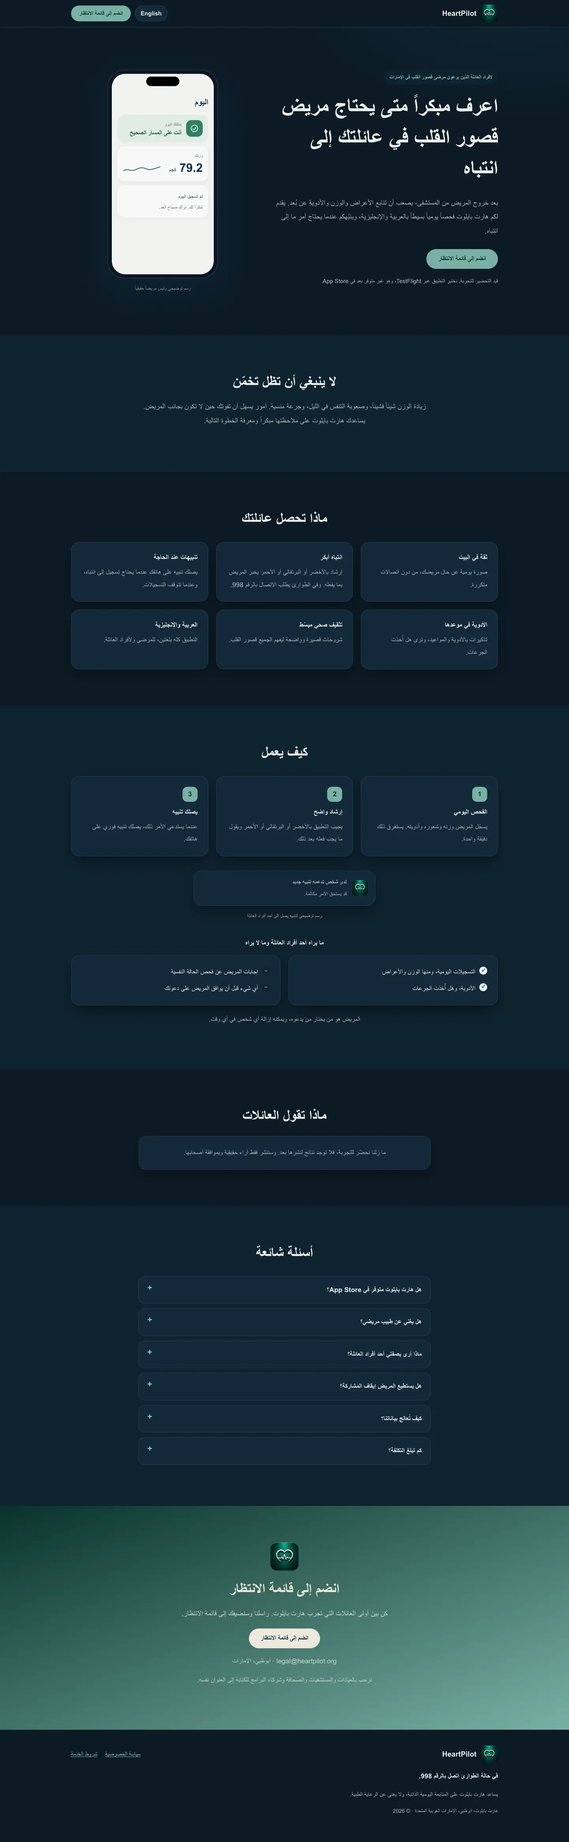
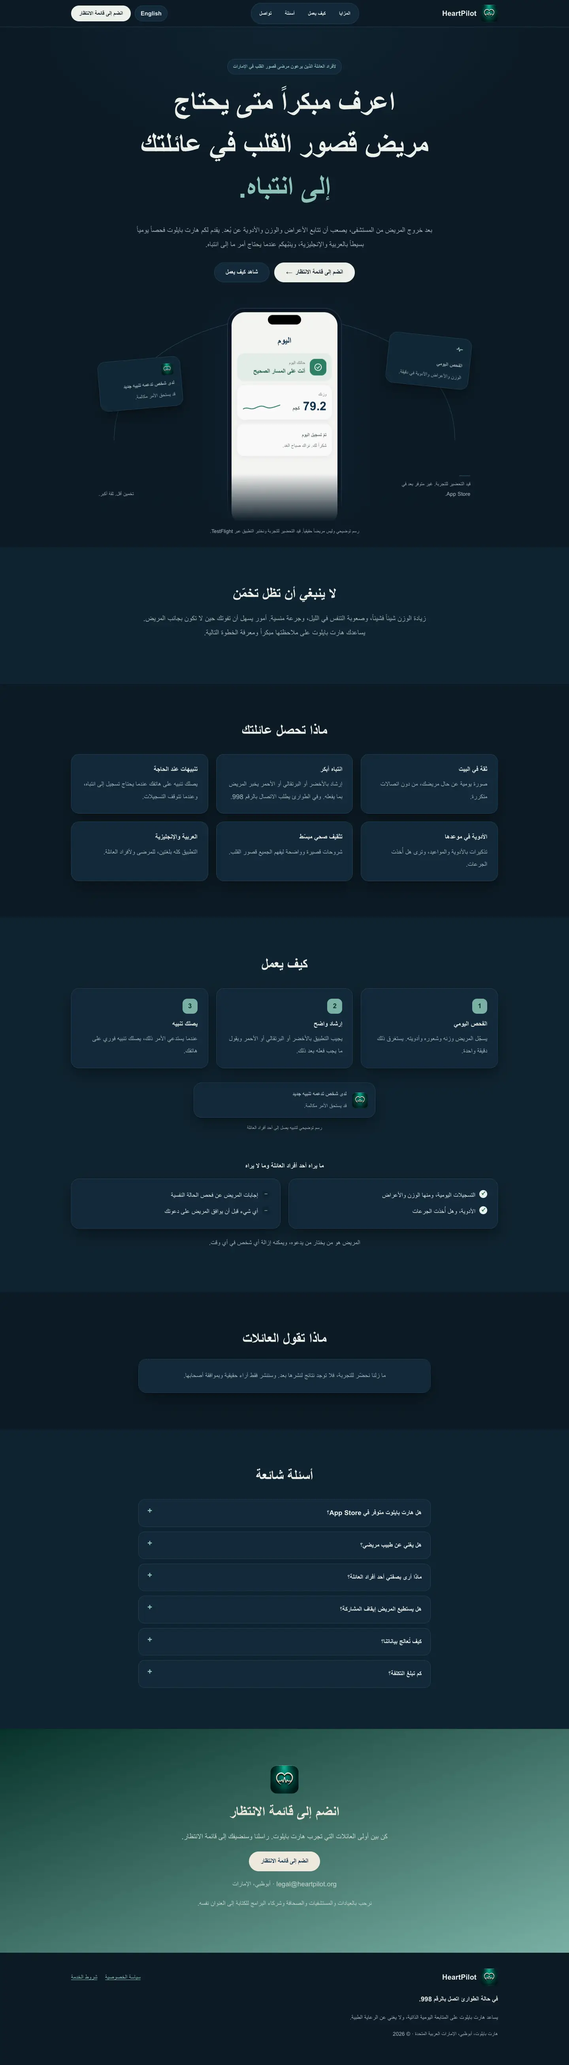
Hero redesign after the reference: centred headline, pill nav, glass cards around the phone

diff --git a/index.html b/index.html
@@ -33,20 +33,20 @@
 <a class="skip" href="#main"><span data-l="en">Skip to content</span><span data-l="ar" lang="ar">انتقل إلى المحتوى</span></a>
 <header class="site-header"><div class="wrap bar">
 <a class="brand" href="/" aria-label="HeartPilot home" data-aria-en="HeartPilot home" data-aria-ar="HeartPilot، الصفحة الرئيسية"><img class="logo" src="/assets/logo-128.png" width="44" height="44" alt=""><span class="word">HeartPilot</span></a>
+<nav class="pill-nav" aria-label="Page sections" data-aria-en="Page sections" data-aria-ar="أقسام الصفحة"><a href="#benefits"><span data-l="en">Benefits</span><span data-l="ar" lang="ar">المزايا</span></a><a href="#how"><span data-l="en">How it works</span><span data-l="ar" lang="ar">كيف يعمل</span></a><a href="#faq"><span data-l="en">Questions</span><span data-l="ar" lang="ar">أسئلة</span></a><a href="#contact"><span data-l="en">Contact</span><span data-l="ar" lang="ar">تواصل</span></a></nav>
 <div class="tools">
-<button type="button" class="lang" id="lang" aria-label="Switch language to Arabic" data-aria-en="Switch language to Arabic" data-aria-ar="English، التبديل إلى الإنجليزية"><span data-l="en" lang="ar">العربية</span><span data-l="ar">English</span></button>
-<a class="btn btn-sm" href="/#contact"><span data-l="en">Join the waitlist</span><span data-l="ar" lang="ar">انضم إلى قائمة الانتظار</span></a>
+<button type="button" class="lang" id="lang" aria-label="العربية, switch language to Arabic" data-aria-en="العربية, switch language to Arabic" data-aria-ar="English، التبديل إلى الإنجليزية"><span data-l="en" lang="ar">العربية</span><span data-l="ar">English</span></button>
+<a class="btn btn-sm btn-dark" href="/#contact"><span data-l="en">Join the waitlist</span><span data-l="ar" lang="ar">انضم إلى قائمة الانتظار</span></a>
 </div></div></header>
 <main id="main">
-<section class="hero"><div class="wrap hero-grid">
-<div class="hero-copy">
+<section class="hero"><div class="wrap center">
 <p class="eyebrow"><span data-l="en">For family caregivers in the UAE</span><span data-l="ar" lang="ar">لأفراد العائلة الذين يرعون مرضى قصور القلب في الإمارات</span></p>
-<h1><span data-l="en">Know sooner when your loved one’s heart failure needs attention</span><span data-l="ar" lang="ar">اعرف مبكراً متى يحتاج مريض قصور القلب في عائلتك إلى انتباه</span></h1>
+<h1><span data-l="en">Know sooner when your loved one’s <em>heart failure needs attention.</em></span><span data-l="ar" lang="ar">اعرف مبكراً متى يحتاج مريض قصور القلب في عائلتك <em>إلى انتباه.</em></span></h1>
 <p class="lead"><span data-l="en">After hospital discharge, symptoms, weight and medicines are easy to miss from a distance. HeartPilot gives your family a simple daily check-in in English and Arabic, and alerts you when something needs attention.</span><span data-l="ar" lang="ar">بعد خروج المريض من المستشفى، يصعب أن تتابع الأعراض والوزن والأدوية عن بُعد. يقدم لكم هارت بايلوت فحصاً يومياً بسيطاً بالعربية والإنجليزية، وينبّهكم عندما يحتاج أمر ما إلى انتباه.</span></p>
-<div class="cta"><a class="btn" href="#contact"><span data-l="en">Join the waitlist</span><span data-l="ar" lang="ar">انضم إلى قائمة الانتظار</span></a></div>
-<p class="note"><span data-l="en">In pilot preparation. Testing on TestFlight. Not yet on the App Store.</span><span data-l="ar" lang="ar">قيد التحضير للتجربة. نختبر التطبيق عبر TestFlight، وهو غير متوفر بعد في App Store.</span></p>
-</div>
-<div class="hero-art" role="img" aria-label="An illustration of the HeartPilot Today screen showing the message You are on track" data-aria-en="An illustration of the HeartPilot Today screen showing the message You are on track" data-aria-ar="رسم توضيحي لشاشة اليوم في هارت بايلوت يعرض رسالة أنت على المسار الصحيح">
+<div class="cta"><a class="btn btn-dark" href="#contact"><span data-l="en">Join the waitlist</span><span data-l="ar" lang="ar">انضم إلى قائمة الانتظار</span><i aria-hidden="true" class="arr">→</i></a><a class="btn btn-ghost" href="#how"><span data-l="en">See how it works</span><span data-l="ar" lang="ar">شاهد كيف يعمل</span></a></div>
+<div class="stage" role="img" aria-label="An illustration of the HeartPilot Today screen showing the message You are on track, with a daily check-in card and a caregiver alert card" data-aria-en="An illustration of the HeartPilot Today screen showing the message You are on track, with a daily check-in card and a caregiver alert card" data-aria-ar="رسم توضيحي لشاشة اليوم في هارت بايلوت يعرض رسالة أنت على المسار الصحيح، مع بطاقة الفحص اليومي وبطاقة تنبيه لأحد أفراد العائلة">
+<svg class="arc" viewBox="0 0 1000 520" preserveAspectRatio="none" aria-hidden="true"><path d="M60 330C60 120 330 40 500 40s440 80 440 290" fill="none" stroke="currentColor" stroke-width="1.2"/></svg>
+<div class="gcard g-left" aria-hidden="true"><svg viewBox="0 0 24 24" width="22" height="22"><path d="M4 12h3l2-5 3 10 2-5h6" fill="none" stroke="currentColor" stroke-width="2" stroke-linecap="round" stroke-linejoin="round"/></svg><b><span data-l="en">Daily check-in</span><span data-l="ar" lang="ar">الفحص اليومي</span></b><span><span data-l="en">Weight, symptoms and medicines in a minute.</span><span data-l="ar" lang="ar">الوزن والأعراض والأدوية في دقيقة.</span></span></div>
 <div class="phone" aria-hidden="true"><div class="notch"></div><div class="screen">
 <div class="s-top"><b><span data-l="en">Today</span><span data-l="ar" lang="ar">اليوم</span></b></div>
 <div class="s-card s-ok"><span class="s-ico"><svg viewBox="0 0 24 24" width="22" height="22"><circle cx="12" cy="12" r="9" fill="none" stroke="#fff" stroke-width="2"/><path d="M8 12.5l3 3 5-6" fill="none" stroke="#fff" stroke-width="2" stroke-linecap="round" stroke-linejoin="round"/></svg></span>
@@ -55,8 +55,12 @@
 <svg viewBox="0 0 120 36" class="spark" aria-hidden="true"><path d="M2 22c14-8 22 4 36-2s20-10 34-4 22 2 46-6" fill="none" stroke="currentColor" stroke-width="2.4" stroke-linecap="round"/></svg></div>
 <div class="s-card s-done"><b><span data-l="en">Check-in done</span><span data-l="ar" lang="ar">تمّ تسجيل اليوم</span></b><span><span data-l="en">Thank you. See you tomorrow morning.</span><span data-l="ar" lang="ar">شكراً لك. نراك صباح الغد.</span></span></div>
 </div></div>
-<p class="cap"><span data-l="en">Illustration, not a real patient</span><span data-l="ar" lang="ar">رسم توضيحي وليس مريضاً حقيقياً</span></p>
-</div></div></section>
+<div class="gcard g-right" aria-hidden="true"><img class="logo" src="/assets/logo-128.png" width="30" height="30" alt=""><b><span data-l="en">Someone you support has a new alert</span><span data-l="ar" lang="ar">لدى شخص تدعمه تنبيه جديد</span></b><span><span data-l="en">It may be worth a call.</span><span data-l="ar" lang="ar">قد يستحق الأمر مكالمة.</span></span></div>
+<p class="stage-note" aria-hidden="true"><i></i><span data-l="en">In pilot preparation. Not yet on the App Store.</span><span data-l="ar" lang="ar">قيد التحضير للتجربة. غير متوفر بعد في App Store.</span></p>
+<p class="stage-tag" aria-hidden="true"><span data-l="en">Less guessing. More confidence.</span><span data-l="ar" lang="ar">تخمين أقل. ثقة أكبر.</span></p>
+</div>
+<p class="cap"><span data-l="en">Illustration, not a real patient. In pilot preparation, testing on TestFlight.</span><span data-l="ar" lang="ar">رسم توضيحي وليس مريضاً حقيقياً. قيد التحضير للتجربة ونختبر التطبيق عبر TestFlight.</span></p>
+</div></section>
 <section class="alt"><div class="wrap narrow center">
 <h2><span data-l="en">You should not have to guess</span><span data-l="ar" lang="ar">لا ينبغي أن تظل تخمّن</span></h2>
 <p class="lead"><span data-l="en">Weight creeping up, harder breathing at night, a missed tablet. These are easy to miss when you are not in the room. HeartPilot helps you see them early and know what to do next.</span><span data-l="ar" lang="ar">زيادة الوزن شيئاً فشيئاً، وصعوبة التنفس في الليل، وجرعة منسية. أمور يسهل أن تفوتك حين لا تكون بجانب المريض. يساعدك هارت بايلوت على ملاحظتها مبكراً ومعرفة الخطوة التالية.</span></p>

diff --git a/assets/css/styles.css b/assets/css/styles.css
@@ -46,20 +46,27 @@ p{margin:0 0 1em}
 .lang{min-height:40px;padding:0 14px;border-radius:999px;border:1px solid var(--line);background:var(--surface);color:var(--ink);font:700 .92rem var(--font);cursor:pointer}
 .lang:hover{border-color:var(--ink)}
 @media (max-width:420px){.btn-sm{padding:0 12px;font-size:.85rem}.brand .word{display:none}}
-/* hero */
-.hero{padding:clamp(40px,7vw,96px) 0;background:radial-gradient(800px 420px at 90% -10%,var(--alt),transparent 70%)}
-.hero-grid{display:grid;grid-template-columns:1.1fr .9fr;gap:48px;align-items:center}
-.eyebrow{display:inline-block;margin:0 0 18px;padding:6px 14px;border-radius:999px;background:var(--alt);color:var(--teal-text);font-weight:700;font-size:.85rem}
-.cta{margin:28px 0 18px}
-.note{font-size:.92rem;color:var(--muted)}
-@media (max-width:900px){.hero-grid{grid-template-columns:1fr;gap:40px}}
-/* phone */
-.hero-art{display:flex;flex-direction:column;align-items:center;padding:10px}
-.phone{width:min(280px,70vw);aspect-ratio:9/17;background:#0B1623;border-radius:44px;padding:11px;box-shadow:0 30px 70px rgba(16,49,74,.3),inset 0 0 0 2px #223249;position:relative;animation:rise .9s cubic-bezier(.2,.7,.2,1) both}
+/* hero (layout after the supplied reference: centred headline, italic second line, glass cards around a central visual) */
+.hero{padding:clamp(36px,6vw,80px) 0 0;background:radial-gradient(900px 480px at 50% 0%,var(--alt),transparent 70%);overflow:hidden}
+.eyebrow{display:inline-block;margin:0 0 20px;padding:6px 14px;border-radius:999px;background:var(--surface);border:1px solid var(--line);color:var(--teal-text);font-weight:700;font-size:.85rem}
+.hero h1{font-size:clamp(2.2rem,6.4vw,4.6rem);line-height:1.08;letter-spacing:-.03em;max-width:16em;margin-inline:auto;text-wrap:balance}
+.hero h1 em{display:block;font-style:italic;font-weight:400;color:var(--teal-text)}
+html[lang=ar] .hero h1 em{font-style:normal;font-weight:700}
+.hero .lead{max-width:40em;margin:0 auto 28px}
+.cta{display:flex;flex-wrap:wrap;gap:12px;justify-content:center;margin:0 0 8px}
+.btn-dark{background:var(--ink);border-color:var(--ink);color:var(--bg)}
+.btn-dark:hover{box-shadow:0 10px 24px rgba(16,49,74,.3)}
+.btn-ghost{background:var(--surface);color:var(--ink);border:1px solid var(--line)}
+.btn-ghost:hover{border-color:var(--ink);box-shadow:none}
+.arr{font-style:normal;margin-inline-start:8px}html[dir=rtl] .arr{display:inline-block;transform:scaleX(-1)}
+.stage{position:relative;max-width:980px;margin:44px auto 0;height:clamp(420px,52vw,560px);overflow:hidden}
+.stage::after{content:"";position:absolute;inset-inline:0;bottom:0;height:120px;background:linear-gradient(transparent,var(--bg));pointer-events:none}
+.arc{position:absolute;inset:0;width:100%;height:100%;color:var(--line)}
+.phone{position:absolute;inset-inline:0;margin-inline:auto;top:20px;width:min(290px,64vw);height:560px;background:#0B1623;border-radius:44px;padding:11px;box-shadow:0 30px 70px rgba(16,49,74,.3),inset 0 0 0 2px #223249;animation:rise .9s cubic-bezier(.2,.7,.2,1) both}
 .notch{position:absolute;top:18px;inset-inline:0;margin-inline:auto;width:84px;height:24px;background:#000;border-radius:14px;z-index:2}
 .screen{height:100%;border-radius:34px;background:#FAF9F7;padding:52px 14px 14px;display:flex;flex-direction:column;gap:10px;color:#10314A;overflow:hidden}
 .s-top b{font-size:1.4rem}
-.s-card{border-radius:18px;padding:14px}
+.s-card{border-radius:18px;padding:14px;text-align:start}
 .s-ok{display:flex;gap:12px;align-items:center;background:#E8F2EC}
 .s-ico{width:42px;height:42px;border-radius:13px;background:#2E8367;display:grid;place-items:center;flex:none}
 .s-ok small,.s-num small{display:block;font-size:.72rem;color:#5F6B70}
@@ -69,7 +76,23 @@ p{margin:0 0 1em}
 .spark{width:96px;position:absolute;inset-inline-end:14px;bottom:16px;color:#166B5C}
 .s-done{background:#fff;box-shadow:0 2px 10px rgba(16,49,74,.07);display:flex;flex-direction:column;gap:2px}
 .s-done b{font-size:.95rem}.s-done span{font-size:.8rem;color:#5F6B70}
-.cap{font-size:.8rem;color:var(--muted);margin:14px 0 0}
+.gcard{position:absolute;width:210px;padding:16px 18px;border-radius:20px;background:color-mix(in srgb,var(--surface) 82%,transparent);backdrop-filter:blur(12px);-webkit-backdrop-filter:blur(12px);border:1px solid var(--line);box-shadow:var(--shadow);text-align:start;z-index:3}
+.gcard b{display:block;font-size:.95rem;margin:8px 0 4px}.gcard span{font-size:.85rem;color:var(--muted);display:block}
+.gcard svg{color:var(--teal-text)}.gcard .logo{width:30px;height:30px;border-radius:8px}
+.g-left{inset-inline-start:2%;top:90px;transform:rotate(-6deg)}
+.g-right{inset-inline-end:2%;top:150px;transform:rotate(5deg)}
+html[dir=rtl] .g-left{transform:rotate(6deg)}html[dir=rtl] .g-right{transform:rotate(-5deg)}
+.stage-note{position:absolute;inset-inline-start:2%;bottom:56px;margin:0;font-size:.85rem;color:var(--muted);text-align:start;max-width:200px;z-index:3}
+.stage-note i{display:block;width:28px;height:2px;background:var(--line);margin-bottom:8px}
+.stage-tag{position:absolute;inset-inline-end:2%;bottom:56px;margin:0;font-size:.85rem;color:var(--muted);text-align:end;max-width:170px;z-index:3}
+.cap{font-size:.8rem;color:var(--muted);margin:0;padding:14px 0 28px}
+@media (max-width:900px){.gcard{width:170px;padding:12px 14px}.g-left{top:70px}.g-right{top:130px}.stage-note,.stage-tag{display:none}}
+@media (max-width:640px){.stage{height:480px}.phone{height:520px}.g-left{inset-inline-start:-6px;top:200px;width:150px}.g-right{inset-inline-end:-6px;top:290px;width:150px}.gcard span{display:none}}
+/* header pill nav */
+.pill-nav{display:flex;gap:2px;padding:5px;border-radius:999px;background:var(--surface);border:1px solid var(--line)}
+.pill-nav a{padding:8px 16px;border-radius:999px;text-decoration:none;color:var(--ink);font-weight:700;font-size:.88rem}
+.pill-nav a:hover{background:var(--alt)}
+@media (max-width:860px){.pill-nav{display:none}}
 /* sections */
 section{padding:clamp(52px,8vw,92px) 0}
 .alt{background:var(--alt)}

diff --git a/404.html b/404.html
@@ -20,9 +20,10 @@
 <a class="skip" href="#main"><span data-l="en">Skip to content</span><span data-l="ar" lang="ar">انتقل إلى المحتوى</span></a>
 <header class="site-header"><div class="wrap bar">
 <a class="brand" href="/" aria-label="HeartPilot home" data-aria-en="HeartPilot home" data-aria-ar="HeartPilot، الصفحة الرئيسية"><img class="logo" src="/assets/logo-128.png" width="44" height="44" alt=""><span class="word">HeartPilot</span></a>
+<nav class="pill-nav" aria-label="Page sections" data-aria-en="Page sections" data-aria-ar="أقسام الصفحة"><a href="#benefits"><span data-l="en">Benefits</span><span data-l="ar" lang="ar">المزايا</span></a><a href="#how"><span data-l="en">How it works</span><span data-l="ar" lang="ar">كيف يعمل</span></a><a href="#faq"><span data-l="en">Questions</span><span data-l="ar" lang="ar">أسئلة</span></a><a href="#contact"><span data-l="en">Contact</span><span data-l="ar" lang="ar">تواصل</span></a></nav>
 <div class="tools">
-<button type="button" class="lang" id="lang" aria-label="Switch language to Arabic" data-aria-en="Switch language to Arabic" data-aria-ar="English، التبديل إلى الإنجليزية"><span data-l="en" lang="ar">العربية</span><span data-l="ar">English</span></button>
-<a class="btn btn-sm" href="/#contact"><span data-l="en">Join the waitlist</span><span data-l="ar" lang="ar">انضم إلى قائمة الانتظار</span></a>
+<button type="button" class="lang" id="lang" aria-label="العربية, switch language to Arabic" data-aria-en="العربية, switch language to Arabic" data-aria-ar="English، التبديل إلى الإنجليزية"><span data-l="en" lang="ar">العربية</span><span data-l="ar">English</span></button>
+<a class="btn btn-sm btn-dark" href="/#contact"><span data-l="en">Join the waitlist</span><span data-l="ar" lang="ar">انضم إلى قائمة الانتظار</span></a>
 </div></div></header>
 <main id="main">
 <section class="hero"><div class="wrap narrow center">

diff --git a/docs/arabic-review.md b/docs/arabic-review.md
@@ -12,80 +12,87 @@ One line needs a decision: *HeartPilot* is written « هارت بايلوت » i
 |---|---|---|---|---|
 | 1 | Header | Join the waitlist | انضم إلى قائمة الانتظار | |
 | 2 | Hero | For family caregivers in the UAE | لأفراد العائلة الذين يرعون مرضى قصور القلب في الإمارات | |
-| 3 | Hero | Know sooner when your loved one’s heart failure needs attention | اعرف مبكراً متى يحتاج مريض قصور القلب في عائلتك إلى انتباه | |
+| 3 | Hero | Know sooner when your loved one’s heart failure needs attention. | اعرف مبكراً متى يحتاج مريض قصور القلب في عائلتك إلى انتباه. | |
 | 4 | Hero | After hospital discharge, symptoms, weight and medicines are easy to miss from a distance. HeartPilot gives your family a simple daily check-in in English and Arabic, and alerts you when something needs attention. | بعد خروج المريض من المستشفى، يصعب أن تتابع الأعراض والوزن والأدوية عن بُعد. يقدم لكم هارت بايلوت فحصاً يومياً بسيطاً بالعربية والإنجليزية، وينبّهكم عندما يحتاج أمر ما إلى انتباه. | |
-| 5 | Hero | In pilot preparation. Testing on TestFlight. Not yet on the App Store. | قيد التحضير للتجربة. نختبر التطبيق عبر TestFlight، وهو غير متوفر بعد في App Store. | |
-| 6 | Hero (accessibility label) | An illustration of the HeartPilot Today screen showing the message You are on track | رسم توضيحي لشاشة اليوم في هارت بايلوت يعرض رسالة أنت على المسار الصحيح | |
-| 7 | Hero | Today | اليوم | |
-| 8 | Hero | How you’re doing | حالتك اليوم | |
-| 9 | Hero | You’re on track | أنت على المسار الصحيح | |
-| 10 | Hero | Your weight | وزنك | |
-| 11 | Hero | kg | كجم | |
-| 12 | Hero | Check-in done | تمّ تسجيل اليوم | |
-| 13 | Hero | Thank you. See you tomorrow morning. | شكراً لك. نراك صباح الغد. | |
-| 14 | Hero | Illustration, not a real patient | رسم توضيحي وليس مريضاً حقيقياً | |
-| 15 | Why it helps | You should not have to guess | لا ينبغي أن تظل تخمّن | |
-| 16 | Why it helps | Weight creeping up, harder breathing at night, a missed tablet. These are easy to miss when you are not in the room. HeartPilot helps you see them early and know what to do next. | زيادة الوزن شيئاً فشيئاً، وصعوبة التنفس في الليل، وجرعة منسية. أمور يسهل أن تفوتك حين لا تكون بجانب المريض. يساعدك هارت بايلوت على ملاحظتها مبكراً ومعرفة الخطوة التالية. | |
-| 17 | Benefits | Confidence at home | ثقة في البيت | |
-| 18 | Benefits | A daily picture of how your loved one is doing, without constant phone calls. | صورة يومية عن حال مريضك، من دون اتصالات متكررة. | |
-| 19 | Benefits | Earlier awareness | انتباه أبكر | |
-| 20 | Benefits | Green, amber or red guidance tells the patient what to do. In an emergency it says to call 998. | إرشاد بالأخضر أو البرتقالي أو الأحمر يخبر المريض بما يفعله. وفي الطوارئ يطلب الاتصال بالرقم 998. | |
-| 21 | Benefits | Alerts that matter | تنبيهات عند الحاجة | |
-| 22 | Benefits | You get an alert on your phone when a check-in needs attention, and again if check-ins stop. | يصلك تنبيه على هاتفك عندما يحتاج تسجيل إلى انتباه، وعندما تتوقف التسجيلات. | |
-| 23 | Benefits | Medicines on track | الأدوية في موعدها | |
-| 24 | Benefits | Reminders for medicines and appointments, and you can see whether doses were taken. | تذكيرات بالأدوية والمواعيد، وترى هل أُخذت الجرعات. | |
-| 25 | Benefits | Simple health education | تثقيف صحي مبسّط | |
-| 26 | Benefits | Short, plain explanations, so the whole family understands heart failure. | شروحات قصيرة وواضحة ليفهم الجميع قصور القلب. | |
-| 27 | Benefits | English and Arabic | العربية والإنجليزية | |
-| 28 | Benefits | The whole app works in both languages, for patients and caregivers. | التطبيق كله بلغتين، للمرضى ولأفراد العائلة. | |
-| 29 | Benefits | What your family gets | ماذا تحصل عائلتك | |
-| 30 | How it works | How it works | كيف يعمل | |
-| 31 | How it works | Daily check-in | الفحص اليومي | |
-| 32 | How it works | The patient logs their weight, how they feel and their medicines. It takes a minute. | يسجّل المريض وزنه وشعوره وأدويته. يستغرق ذلك دقيقة واحدة. | |
-| 33 | How it works | Clear guidance | إرشاد واضح | |
-| 34 | How it works | The app answers with green, amber or red and says what to do next. | يجيب التطبيق بالأخضر أو البرتقالي أو الأحمر ويقول ما يجب فعله بعد ذلك. | |
-| 35 | How it works | You are alerted | يصلك تنبيه | |
-| 36 | How it works | When it matters, you get an instant alert on your phone. | عندما يستدعي الأمر ذلك، يصلك تنبيه فوري على هاتفك. | |
-| 37 | How it works (accessibility label) | An illustration of a caregiver alert notification | رسم توضيحي لتنبيه يصل إلى أحد أفراد العائلة | |
-| 38 | How it works | Someone you support has a new alert | لدى شخص تدعمه تنبيه جديد | |
-| 39 | How it works | It may be worth a call. | قد يستحق الأمر مكالمة. | |
-| 40 | How it works | Illustration of a caregiver alert | رسم توضيحي لتنبيه يصل إلى أحد أفراد العائلة | |
-| 41 | How it works | What a caregiver sees, and does not see | ما يراه أحد أفراد العائلة وما لا يراه | |
-| 42 | How it works | The daily check-ins, including weight and symptoms | التسجيلات اليومية، ومنها الوزن والأعراض | |
-| 43 | How it works | The medicines and whether doses were taken | الأدوية، وهل أُخذت الجرعات | |
-| 44 | How it works | The patient’s answers to the wellbeing check | إجابات المريض عن فحص الحالة النفسية | |
-| 45 | How it works | Anything before the patient accepts your invite | أي شيء قبل أن يوافق المريض على دعوتك | |
-| 46 | How it works | The patient chooses who to invite and can remove a caregiver at any time. | المريض هو من يختار من يدعوه، ويمكنه إزالة أي شخص في أي وقت. | |
-| 47 | Proof | What families say | ماذا تقول العائلات | |
-| 48 | Proof | We are still preparing our pilot, so there are no results to share yet. We will only publish real feedback, with permission. | ما زلنا نحضّر للتجربة، فلا توجد نتائج لنشرها بعد. وسننشر فقط آراء حقيقية وبموافقة أصحابها. | |
-| 49 | FAQ | Is HeartPilot on the App Store? | هل هارت بايلوت متوفر في App Store؟ | |
-| 50 | FAQ | Not yet. It is in pilot preparation and in TestFlight testing. Join the waitlist and we will tell you when you can try it. | ليس بعد. التطبيق قيد التحضير للتجربة ونختبره عبر TestFlight. انضم إلى قائمة الانتظار وسنخبرك عندما تتاح لك التجربة. | |
-| 51 | FAQ | Does it replace my loved one’s doctor? | هل يغني عن طبيب مريضي؟ | |
-| 52 | FAQ | No. HeartPilot supports daily self-management and does not replace medical care. In an emergency call 998. | لا. يساعد هارت بايلوت على المتابعة اليومية الذاتية، ولا يغني عن الرعاية الطبية. في حالة الطوارئ اتصل بالرقم 998. | |
-| 53 | FAQ | What can I see as a caregiver? | ماذا أرى بصفتي أحد أفراد العائلة؟ | |
-| 54 | FAQ | The daily check-ins, the medicines and whether doses were taken. You do not see the patient’s answers to the wellbeing check. | التسجيلات اليومية والأدوية وهل أُخذت الجرعات. لا ترى إجابات المريض عن فحص الحالة النفسية. | |
-| 55 | FAQ | Can the patient stop sharing? | هل يستطيع المريض إيقاف المشاركة؟ | |
-| 56 | FAQ | Yes. The patient chooses who to invite and can remove a caregiver at any time. Patients and caregivers can also delete their account inside the app. | نعم. المريض هو من يختار من يدعوه ويمكنه إزالة أي شخص في أي وقت. ويمكن للمريض ولأفراد العائلة أيضاً حذف حسابهم من داخل التطبيق. | |
-| 57 | FAQ | How is our data handled? | كيف تُعالج بياناتنا؟ | |
-| 58 | FAQ | Under our published Privacy Policy, which you can read before you join. | وفق سياسة الخصوصية المنشورة، ويمكنك قراءتها قبل الانضمام. | |
-| 59 | FAQ | What does it cost? | كم تبلغ التكلفة؟ | |
-| 60 | FAQ | Pricing has not been announced yet. | لم يُعلن عن الأسعار بعد. | |
-| 61 | FAQ | Questions | أسئلة شائعة | |
-| 62 | Call to action and contact | Be among the first families to try HeartPilot. Send us an email and we will add you to the waitlist. | كن بين أولى العائلات التي تجرب هارت بايلوت. راسلنا وسنضيفك إلى قائمة الانتظار. | |
-| 63 | Call to action and contact | Abu Dhabi, UAE | أبوظبي، الإمارات | |
-| 64 | Call to action and contact | Clinics, hospitals, press and programme partners are welcome to write to the same address. | نرحب بالعيادات والمستشفيات والصحافة وشركاء البرامج للكتابة إلى العنوان نفسه. | |
-| 65 | Page title and description | HeartPilot: heart failure care at home for UAE families / Join the waitlist | هارت بايلوت: متابعة قصور القلب في البيت للعائلات في الإمارات / انضم إلى قائمة الانتظار | |
-| 66 | Page title and description | HeartPilot is a bilingual daily check-in app for people with heart failure. It tells patients what to do and alerts a family caregiver when it matters. In pilot preparation. | هارت بايلوت تطبيق للفحص اليومي لمرضى قصور القلب بالعربية والإنجليزية. يخبر المريض بما يفعله وينبّه أحد أفراد العائلة عند الحاجة. قيد التحضير للتجربة. | |
-| 67 | Call to action and contact | Skip to content | انتقل إلى المحتوى | |
-| 68 | Header (accessibility label) | HeartPilot home | HeartPilot، الصفحة الرئيسية | |
-| 69 | Header (accessibility label) | Switch language to Arabic | English، التبديل إلى الإنجليزية | |
-| 70 | Footer | Privacy Policy | سياسة الخصوصية | |
-| 71 | Footer | Terms of Service | شروط الخدمة | |
-| 72 | Footer | In an emergency call 998. | في حالة الطوارئ اتصل بالرقم 998. | |
-| 73 | Footer | HeartPilot supports daily self-management and does not replace medical care. | يساعد هارت بايلوت على المتابعة اليومية الذاتية، ولا يغني عن الرعاية الطبية. | |
-| 74 | Footer | HeartPilot, Abu Dhabi, UAE | هارت بايلوت، أبوظبي، الإمارات العربية المتحدة | |
-| 75 | 404 page | We could not find that page | لم نجد هذه الصفحة | |
-| 76 | 404 page | The link may be old or mistyped. | ربما الرابط قديم أو فيه خطأ. | |
-| 77 | 404 page | Go to the home page | العودة إلى الصفحة الرئيسية | |
-| 78 | Page title and description | Page not found / HeartPilot | الصفحة غير موجودة / هارت بايلوت | |
-| 79 | Page title and description | This page does not exist. | هذه الصفحة غير موجودة. | |
+| 5 | Hero | See how it works | شاهد كيف يعمل | |
+| 6 | Hero (accessibility label) | An illustration of the HeartPilot Today screen showing the message You are on track, with a daily check-in card and a caregiver alert card | رسم توضيحي لشاشة اليوم في هارت بايلوت يعرض رسالة أنت على المسار الصحيح، مع بطاقة الفحص اليومي وبطاقة تنبيه لأحد أفراد العائلة | |
+| 7 | Hero | Daily check-in | الفحص اليومي | |
+| 8 | Hero | Weight, symptoms and medicines in a minute. | الوزن والأعراض والأدوية في دقيقة. | |
+| 9 | Hero | Today | اليوم | |
+| 10 | Hero | How you’re doing | حالتك اليوم | |
+| 11 | Hero | You’re on track | أنت على المسار الصحيح | |
+| 12 | Hero | Your weight | وزنك | |
+| 13 | Hero | kg | كجم | |
+| 14 | Hero | Check-in done | تمّ تسجيل اليوم | |
+| 15 | Hero | Thank you. See you tomorrow morning. | شكراً لك. نراك صباح الغد. | |
+| 16 | Hero | Someone you support has a new alert | لدى شخص تدعمه تنبيه جديد | |
+| 17 | Hero | It may be worth a call. | قد يستحق الأمر مكالمة. | |
+| 18 | Hero | In pilot preparation. Not yet on the App Store. | قيد التحضير للتجربة. غير متوفر بعد في App Store. | |
+| 19 | Hero | Less guessing. More confidence. | تخمين أقل. ثقة أكبر. | |
+| 20 | Hero | Illustration, not a real patient. In pilot preparation, testing on TestFlight. | رسم توضيحي وليس مريضاً حقيقياً. قيد التحضير للتجربة ونختبر التطبيق عبر TestFlight. | |
+| 21 | Why it helps | You should not have to guess | لا ينبغي أن تظل تخمّن | |
+| 22 | Why it helps | Weight creeping up, harder breathing at night, a missed tablet. These are easy to miss when you are not in the room. HeartPilot helps you see them early and know what to do next. | زيادة الوزن شيئاً فشيئاً، وصعوبة التنفس في الليل، وجرعة منسية. أمور يسهل أن تفوتك حين لا تكون بجانب المريض. يساعدك هارت بايلوت على ملاحظتها مبكراً ومعرفة الخطوة التالية. | |
+| 23 | Benefits | Confidence at home | ثقة في البيت | |
+| 24 | Benefits | A daily picture of how your loved one is doing, without constant phone calls. | صورة يومية عن حال مريضك، من دون اتصالات متكررة. | |
+| 25 | Benefits | Earlier awareness | انتباه أبكر | |
+| 26 | Benefits | Green, amber or red guidance tells the patient what to do. In an emergency it says to call 998. | إرشاد بالأخضر أو البرتقالي أو الأحمر يخبر المريض بما يفعله. وفي الطوارئ يطلب الاتصال بالرقم 998. | |
+| 27 | Benefits | Alerts that matter | تنبيهات عند الحاجة | |
+| 28 | Benefits | You get an alert on your phone when a check-in needs attention, and again if check-ins stop. | يصلك تنبيه على هاتفك عندما يحتاج تسجيل إلى انتباه، وعندما تتوقف التسجيلات. | |
+| 29 | Benefits | Medicines on track | الأدوية في موعدها | |
+| 30 | Benefits | Reminders for medicines and appointments, and you can see whether doses were taken. | تذكيرات بالأدوية والمواعيد، وترى هل أُخذت الجرعات. | |
+| 31 | Benefits | Simple health education | تثقيف صحي مبسّط | |
+| 32 | Benefits | Short, plain explanations, so the whole family understands heart failure. | شروحات قصيرة وواضحة ليفهم الجميع قصور القلب. | |
+| 33 | Benefits | English and Arabic | العربية والإنجليزية | |
+| 34 | Benefits | The whole app works in both languages, for patients and caregivers. | التطبيق كله بلغتين، للمرضى ولأفراد العائلة. | |
+| 35 | Benefits | What your family gets | ماذا تحصل عائلتك | |
+| 36 | How it works | How it works | كيف يعمل | |
+| 37 | How it works | The patient logs their weight, how they feel and their medicines. It takes a minute. | يسجّل المريض وزنه وشعوره وأدويته. يستغرق ذلك دقيقة واحدة. | |
+| 38 | How it works | Clear guidance | إرشاد واضح | |
+| 39 | How it works | The app answers with green, amber or red and says what to do next. | يجيب التطبيق بالأخضر أو البرتقالي أو الأحمر ويقول ما يجب فعله بعد ذلك. | |
+| 40 | How it works | You are alerted | يصلك تنبيه | |
+| 41 | How it works | When it matters, you get an instant alert on your phone. | عندما يستدعي الأمر ذلك، يصلك تنبيه فوري على هاتفك. | |
+| 42 | How it works (accessibility label) | An illustration of a caregiver alert notification | رسم توضيحي لتنبيه يصل إلى أحد أفراد العائلة | |
+| 43 | How it works | Illustration of a caregiver alert | رسم توضيحي لتنبيه يصل إلى أحد أفراد العائلة | |
+| 44 | How it works | What a caregiver sees, and does not see | ما يراه أحد أفراد العائلة وما لا يراه | |
+| 45 | How it works | The daily check-ins, including weight and symptoms | التسجيلات اليومية، ومنها الوزن والأعراض | |
+| 46 | How it works | The medicines and whether doses were taken | الأدوية، وهل أُخذت الجرعات | |
+| 47 | How it works | The patient’s answers to the wellbeing check | إجابات المريض عن فحص الحالة النفسية | |
+| 48 | How it works | Anything before the patient accepts your invite | أي شيء قبل أن يوافق المريض على دعوتك | |
+| 49 | How it works | The patient chooses who to invite and can remove a caregiver at any time. | المريض هو من يختار من يدعوه، ويمكنه إزالة أي شخص في أي وقت. | |
+| 50 | Proof | What families say | ماذا تقول العائلات | |
+| 51 | Proof | We are still preparing our pilot, so there are no results to share yet. We will only publish real feedback, with permission. | ما زلنا نحضّر للتجربة، فلا توجد نتائج لنشرها بعد. وسننشر فقط آراء حقيقية وبموافقة أصحابها. | |
+| 52 | FAQ | Is HeartPilot on the App Store? | هل هارت بايلوت متوفر في App Store؟ | |
+| 53 | FAQ | Not yet. It is in pilot preparation and in TestFlight testing. Join the waitlist and we will tell you when you can try it. | ليس بعد. التطبيق قيد التحضير للتجربة ونختبره عبر TestFlight. انضم إلى قائمة الانتظار وسنخبرك عندما تتاح لك التجربة. | |
+| 54 | FAQ | Does it replace my loved one’s doctor? | هل يغني عن طبيب مريضي؟ | |
+| 55 | FAQ | No. HeartPilot supports daily self-management and does not replace medical care. In an emergency call 998. | لا. يساعد هارت بايلوت على المتابعة اليومية الذاتية، ولا يغني عن الرعاية الطبية. في حالة الطوارئ اتصل بالرقم 998. | |
+| 56 | FAQ | What can I see as a caregiver? | ماذا أرى بصفتي أحد أفراد العائلة؟ | |
+| 57 | FAQ | The daily check-ins, the medicines and whether doses were taken. You do not see the patient’s answers to the wellbeing check. | التسجيلات اليومية والأدوية وهل أُخذت الجرعات. لا ترى إجابات المريض عن فحص الحالة النفسية. | |
+| 58 | FAQ | Can the patient stop sharing? | هل يستطيع المريض إيقاف المشاركة؟ | |
+| 59 | FAQ | Yes. The patient chooses who to invite and can remove a caregiver at any time. Patients and caregivers can also delete their account inside the app. | نعم. المريض هو من يختار من يدعوه ويمكنه إزالة أي شخص في أي وقت. ويمكن للمريض ولأفراد العائلة أيضاً حذف حسابهم من داخل التطبيق. | |
+| 60 | FAQ | How is our data handled? | كيف تُعالج بياناتنا؟ | |
+| 61 | FAQ | Under our published Privacy Policy, which you can read before you join. | وفق سياسة الخصوصية المنشورة، ويمكنك قراءتها قبل الانضمام. | |
+| 62 | FAQ | What does it cost? | كم تبلغ التكلفة؟ | |
+| 63 | FAQ | Pricing has not been announced yet. | لم يُعلن عن الأسعار بعد. | |
+| 64 | FAQ | Questions | أسئلة شائعة | |
+| 65 | Call to action and contact | Be among the first families to try HeartPilot. Send us an email and we will add you to the waitlist. | كن بين أولى العائلات التي تجرب هارت بايلوت. راسلنا وسنضيفك إلى قائمة الانتظار. | |
+| 66 | Call to action and contact | Abu Dhabi, UAE | أبوظبي، الإمارات | |
+| 67 | Call to action and contact | Clinics, hospitals, press and programme partners are welcome to write to the same address. | نرحب بالعيادات والمستشفيات والصحافة وشركاء البرامج للكتابة إلى العنوان نفسه. | |
+| 68 | Page title and description | HeartPilot: heart failure care at home for UAE families / Join the waitlist | هارت بايلوت: متابعة قصور القلب في البيت للعائلات في الإمارات / انضم إلى قائمة الانتظار | |
+| 69 | Page title and description | HeartPilot is a bilingual daily check-in app for people with heart failure. It tells patients what to do and alerts a family caregiver when it matters. In pilot preparation. | هارت بايلوت تطبيق للفحص اليومي لمرضى قصور القلب بالعربية والإنجليزية. يخبر المريض بما يفعله وينبّه أحد أفراد العائلة عند الحاجة. قيد التحضير للتجربة. | |
+| 70 | Call to action and contact | Skip to content | انتقل إلى المحتوى | |
+| 71 | Header (accessibility label) | HeartPilot home | HeartPilot، الصفحة الرئيسية | |
+| 72 | Header (accessibility label) | Page sections | أقسام الصفحة | |
+| 73 | Header | Benefits | المزايا | |
+| 74 | Header | Questions | أسئلة | |
+| 75 | Header | Contact | تواصل | |
+| 76 | Header (accessibility label) | العربية, switch language to Arabic | English، التبديل إلى الإنجليزية | |
+| 77 | Footer | Privacy Policy | سياسة الخصوصية | |
+| 78 | Footer | Terms of Service | شروط الخدمة | |
+| 79 | Footer | In an emergency call 998. | في حالة الطوارئ اتصل بالرقم 998. | |
+| 80 | Footer | HeartPilot supports daily self-management and does not replace medical care. | يساعد هارت بايلوت على المتابعة اليومية الذاتية، ولا يغني عن الرعاية الطبية. | |
+| 81 | Footer | HeartPilot, Abu Dhabi, UAE | هارت بايلوت، أبوظبي، الإمارات العربية المتحدة | |
+| 82 | 404 page | We could not find that page | لم نجد هذه الصفحة | |
+| 83 | 404 page | The link may be old or mistyped. | ربما الرابط قديم أو فيه خطأ. | |
+| 84 | 404 page | Go to the home page | العودة إلى الصفحة الرئيسية | |
+| 85 | Page title and description | Page not found / HeartPilot | الصفحة غير موجودة / هارت بايلوت | |
+| 86 | Page title and description | This page does not exist. | هذه الصفحة غير موجودة. | |
